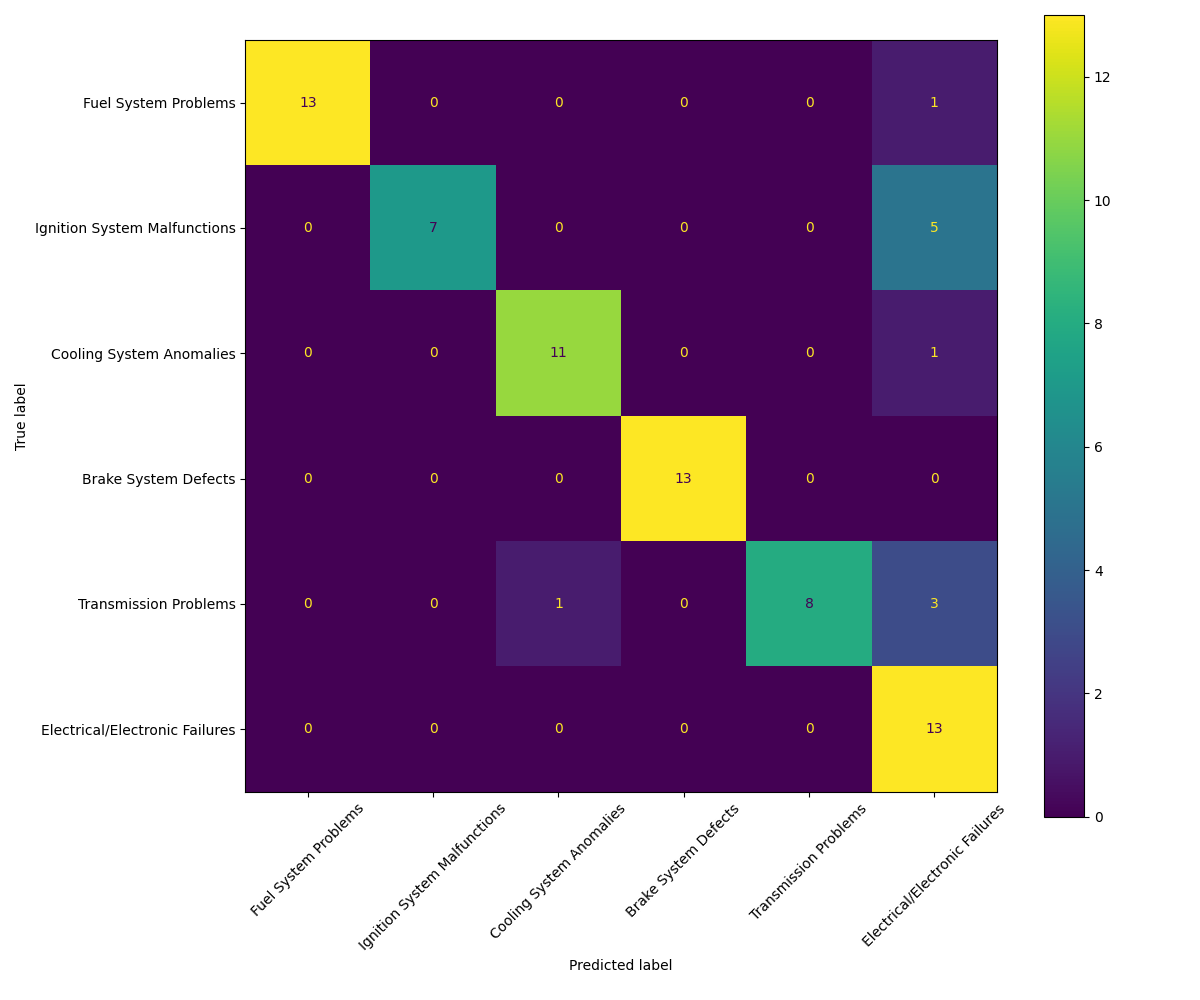
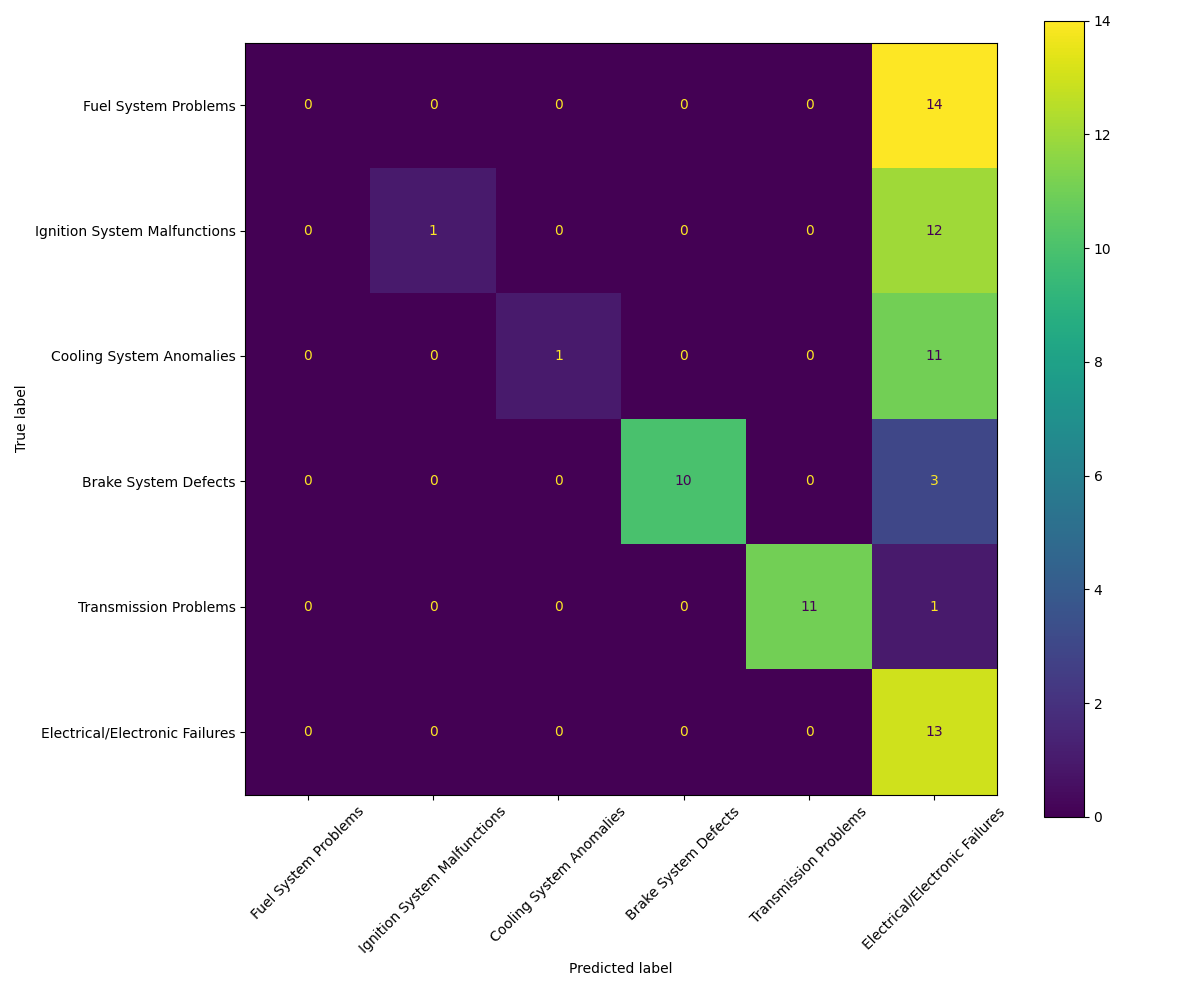
[fix] improved example prompts, added quantization configuration (not working)

diff --git a/finetuning.py b/finetuning.py
@@ -1,6 +1,8 @@
 import pandas as pd
 import argparse
-from transformers import AutoTokenizer, AutoModelForCausalLM
+import bitsandbytes as bnb
+import accelerate as aclrt
+from transformers import AutoTokenizer, AutoModelForCausalLM, BitsAndBytesConfig
 from datetime import datetime
 from huggingface_hub import snapshot_download
 from sklearn.metrics import accuracy_score, precision_score, recall_score, f1_score, confusion_matrix, ConfusionMatrixDisplay
@@ -40,7 +42,23 @@ class FineTuningClassifier:
 
         self.test_mode = test_mode
 
-        self.model = AutoModelForCausalLM.from_pretrained(self.model_id, torch_dtype=torch.float32).to(self.device).eval()
+        if (self.model_name=="gemma3_4b"):
+            # quantization_config = BitsAndBytesConfig(load_in_8bit=True)
+            quant_config = BitsAndBytesConfig(
+                load_in_4bit=True,
+                bnb_4bit_quant_type="nf4",
+                bnb_4bit_compute_dtype=torch.float16,
+                bnb_4bit_use_double_quant=False
+            )
+
+            print("Using quantization")
+            self.model = AutoModelForCausalLM.from_pretrained(
+                self.model_id,
+                quantization_config=quant_config,
+            ).to(self.device).eval()
+        else:
+            self.model = AutoModelForCausalLM.from_pretrained(self.model_id, torch_dtype=torch.float32).to(self.device).eval()
+
         self.tokenizer = AutoTokenizer.from_pretrained(self.model_id)
 
         # load dataset, examples and set categories
@@ -96,7 +114,8 @@ class FineTuningClassifier:
         if self.adjusted_example_pool_size > 0:
             prompt += f"Examples:\n"
             for example in examples:
-                prompt += f"Failure: {example['phrase']}\nCategory: {example['category']}\n\n"
+                # prompt += f"Failure: {example['phrase']}\nCategory: {example['category']}\n\n"
+                prompt += f"{example['category']}: {example['phrase']}\n"
 
         # prompt += f"Failure: {phrase}\nCategory:" #circa 73% con gemma3 **
         return prompt
@@ -130,7 +149,7 @@ class FineTuningClassifier:
         :param phrase:
         :return:
         """
-        # prompt = (
+        # prompt = ( #circa 51% con gemma3
         #     f"Classify the automotive failure into one of these categories:\n"
         #     f"{', '.join(self.categories)}.\n"
         #     f"Definitions of the categories:\n"
@@ -143,7 +162,7 @@ class FineTuningClassifier:
         #     f"Failure: {phrase}\nCategory:"
         # )
 
-        prompt = (
+        prompt = ( #circa 92% gemma3
             f"Classify the following automotive failure: "
             f"{phrase}\n"
             "into one of these categories: "
@@ -170,20 +189,21 @@ class FineTuningClassifier:
             f"Classify the following automotive failure: "
             f"{phrase}\n"
             "into one of these categories: "
-            f"{', '.join(self.categories)}.\n\n"
-            "   using the following definitions:\n"
+            f"{', '.join(self.categories)}.\n"
+            "Using the following definitions:\n"
             "Fuel System Problems: Issues related to the delivery, regulation, or combustion of fuel in the engine. These problems can arise from components such as the fuel pump, fuel injectors, fuel filter, or fuel lines. Symptoms often include poor fuel efficiency, engine stalling, or difficulty starting. \n"
             "Ignition System Malfunctions: Faults within the system responsible for igniting the air-fuel mixture in the engine's cylinders. This includes components like spark plugs, ignition coils, distributor caps, and crankshaft position sensors. Common symptoms include misfires, difficulty starting, or rough idling. \n"
             "Cooling System Anomalies: Problems affecting the system that regulates engine temperature to prevent overheating. Components include the radiator, water pump, thermostat, and coolant hoses. Indicators of issues are engine overheating, coolant leaks, or insufficient heating in the cabin.\n"
             "Brake System Defects: Malfunctions in the braking system that affect the vehicle's ability to slow down or stop safely. This includes defects in brake pads, rotors, calipers, or hydraulic components like the master cylinder. Symptoms include squealing noises, vibrations, or reduced braking effectiveness.\n"
             "Transmission Problems: Issues within the system responsible for transmitting power from the engine to the wheels, including automatic or manual transmissions. Common problems involve slipping gears, delayed shifting, or leaks in the transmission fluid. Symptoms include unusual noises and difficulty in shifting gears.\n"
             "Electrical/Electronic Failures: Faults in the vehicle's electrical or electronic systems, including the battery, alternator, wiring, or onboard computers. These can manifest as flickering lights, dead batteries, or malfunctioning electronic components like power windows or dashboard instruments. \n"
-            "Examples:\n"
+            "And using the following examples:\n"
         )
 
         if self.adjusted_example_pool_size > 0:
-            for example in examples:
-                prompt += f"Failure: {example['phrase']}\nCategory: {example['category']}\n\n"
+            for example in examples: #circa 78% con gemma3,
+                # prompt += f"Failure: {example['phrase']}\nCategory: {example['category']}\n\n"
+                prompt += f"{example['category']}: {example['phrase']}\n"
 
         return prompt
 
@@ -371,7 +391,7 @@ if __name__ == "__main__":
         "--model",
         type=str,
         default="gemma3_1b",  # Default value from the classifier initialization
-        choices=["gemma2", "gemma3_1b"],
+        choices=["gemma2", "gemma3_1b", "gemma3_4b"],
         help="Choose model between gemma2, gemma3_1b. Default is 'gemma3_1b'."
     )
 
